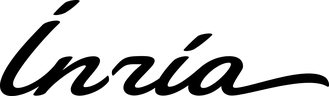
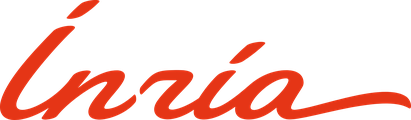
Show affiliations as colored, linked institution tags
- Full-color marks on light tags that read in both themes
- Add SCI Institute and TU Graz; list Dilshadur under Harvard Medical School
- Each tag links to the institution and highlights its authors on hover or focus

diff --git a/vis2026.html b/vis2026.html
@@ -841,58 +841,134 @@
       max-width: 62ch;
     }
 
-    /* Affiliations: one ink tone, each mark warms to its own color on hover */
+    /* Affiliations: small paper tags in each institution's own colors */
     .authors:has(+ .insts) {
-      margin-bottom: 12px;
+      margin-bottom: 14px;
     }
 
     .insts {
+      --tag-bg: #FFFFFF;
+      --tag-ink: #3E4148;
+      --tag-ring: rgba(21, 23, 27, 0.1);
+      --tag-shadow: 0 1px 2px rgba(21, 23, 27, 0.05);
       display: flex;
       flex-wrap: wrap;
-      align-items: center;
-      gap: 10px 20px;
-      margin: 0 0 20px;
+      gap: 8px;
+      margin: 0 0 22px;
       padding: 0;
       list-style: none;
+    }
+
+    html[data-theme="dark"] .insts {
+      --tag-bg: #ECE9E2;
+      --tag-ink: #2C2F35;
+      --tag-ring: rgba(255, 255, 255, 0.06);
+      --tag-shadow: 0 1px 2px rgba(0, 0, 0, 0.3);
     }
 
     .inst {
       display: inline-flex;
       align-items: center;
       gap: 8px;
+      height: 32px;
+      padding: 0 12px 0 9px;
+      border-radius: 8px;
+      background: var(--tag-bg);
+      box-shadow: 0 0 0 1px var(--tag-ring), var(--tag-shadow);
+      color: var(--tag-ink);
       font-size: 0.8125rem;
-      line-height: 1.2;
-      letter-spacing: 0.005em;
-      color: var(--ink-3);
-      transition: color 0.3s ease;
+      line-height: 1;
+      letter-spacing: 0.003em;
+      white-space: nowrap;
+      text-decoration: none;
+      transition: transform 0.4s var(--ease-out), box-shadow 0.4s var(--ease-out), color 0.3s ease;
     }
 
-    .inst i {
+    .inst img {
       display: block;
-      height: 19px;
+      width: auto;
+      height: 18px;
       flex: none;
-      background-color: currentColor;
-      -webkit-mask: var(--logo) center / contain no-repeat;
-      mask: var(--logo) center / contain no-repeat;
-      opacity: 0.85;
-      transition: background-color 0.35s ease, opacity 0.35s ease;
     }
 
-    .inst-word i {
+    .inst-word {
+      padding: 0 12px;
+    }
+
+    .inst-word img {
+      height: 15px;
+    }
+
+    .inst[data-inst="saclay"] img {
+      height: 21px;
+    }
+
+    .inst[data-inst="inria"] img {
       height: 16px;
     }
 
-    .inst[data-inst="saclay"] i {
-      height: 25px;
+    .inst[data-inst="sci"] img {
+      height: 22px;
     }
 
-    .inst[data-inst="inria"] i {
-      height: 18px;
-    }
-
-    .inst[data-inst="stuttgart"] i,
-    .inst[data-inst="wisconsin"] i {
+    .inst[data-inst="wisconsin"] img {
       height: 21px;
+    }
+
+    .inst[data-inst="stuttgart"] img {
+      height: 22px;
+    }
+
+    .inst:focus-visible {
+      outline: 2px solid var(--accent);
+      outline-offset: 2px;
+    }
+
+    @media (max-width: 560px) {
+      .insts {
+        gap: 6px;
+      }
+
+      .inst {
+        height: 28px;
+        gap: 6px;
+        padding: 0 9px 0 7px;
+        border-radius: 7px;
+        font-size: 0.75rem;
+      }
+
+      .inst-word {
+        padding: 0 9px;
+      }
+
+      .inst img {
+        height: 15px;
+      }
+
+      .inst-word img,
+      .inst[data-inst="inria"] img {
+        height: 13px;
+      }
+
+      .inst[data-inst="saclay"] img {
+        height: 18px;
+      }
+
+      .inst[data-inst="sci"] img,
+      .inst[data-inst="wisconsin"] img,
+      .inst[data-inst="stuttgart"] img {
+        height: 18px;
+      }
+    }
+
+    @media (hover: hover) and (pointer: fine) {
+      .inst:hover {
+        transform: translateY(-2px);
+        color: #15171B;
+        box-shadow:
+          0 0 0 1px color-mix(in srgb, var(--brand) 42%, transparent),
+          0 10px 20px -10px color-mix(in srgb, var(--brand) 55%, rgba(0, 0, 0, 0.4));
+      }
     }
 
     .authors a[data-inst] {
@@ -905,21 +981,6 @@
 
     .authors.is-filtered a.is-match {
       color: var(--ink);
-    }
-
-    @media (hover: hover) and (pointer: fine) {
-      .inst:hover {
-        color: var(--ink-2);
-      }
-
-      .inst:hover i {
-        background-color: var(--brand);
-        opacity: 1;
-      }
-
-      html[data-theme="dark"] .inst:hover i {
-        background-color: var(--ink);
-      }
     }
 
     .sr-only {
@@ -1509,8 +1570,8 @@
                   href="https://ieeevis.org/year/2026/program/session/w-accessviz-accessvis-1" target="_blank"
                   rel="noopener">AccessViz: 3rd Workshop on Accessible Data Visualization</a></p>
               <h4>A Case Study in Accessible Redesign of a Wastewater Dashboard</h4>
-              <p class="authors"><a class="u quiet" data-inst="utah" href="https://tingying-he.github.io/" target="_blank" rel="noopener">Tingying He</a>, <a class="u quiet" data-inst="utah" href="https://www.visdesignlab.net/team/wagoner/" target="_blank" rel="noopener">Jake Wagoner</a>, <a class="u quiet" data-inst="utah" href="https://rahatzamancse.netlify.app/" target="_blank" rel="noopener">Md Rahat-uz-Zaman</a>, <b><a class="u quiet" data-inst="utah" href="./">Md Dilshadur Rahman</a></b>, <a class="u quiet" data-inst="utah" href="https://www.linkedin.com/in/willy-ray-8018884/" target="_blank" rel="noopener">Willy Ray</a>, <a class="u quiet" data-inst="utah" href="https://ggvy.cl/" target="_blank" rel="noopener">George G. Vega Yon</a>, <a class="u quiet" data-inst="utah" href="https://medicine.utah.edu/faculty/matthew-h-samore" target="_blank" rel="noopener">Matthew Samore</a>, <a class="u quiet" data-inst="utah" href="https://alexander-lex.net/" target="_blank" rel="noopener">Alexander Lex</a>, <a class="u quiet" data-inst="utah" href="https://cspaul.com/" target="_blank" rel="noopener">Paul Rosen</a></p>
-              <ul class="insts" aria-label="Affiliations"><li class="inst" data-inst="utah" style="--brand:#BE0000"><i style="--logo:url(vis2026/inst/utah.png);aspect-ratio:106/96" aria-hidden="true"></i>University of Utah</li></ul>
+              <p class="authors"><a class="u quiet" data-inst="utah sci" href="https://tingying-he.github.io/" target="_blank" rel="noopener">Tingying He</a>, <a class="u quiet" data-inst="utah sci" href="https://www.visdesignlab.net/team/wagoner/" target="_blank" rel="noopener">Jake Wagoner</a>, <a class="u quiet" data-inst="utah sci" href="https://rahatzamancse.netlify.app/" target="_blank" rel="noopener">Md Rahat-uz-Zaman</a>, <b><a class="u quiet" data-inst="harvard" href="./">Md Dilshadur Rahman</a></b>, <a class="u quiet" data-inst="utah" href="https://www.linkedin.com/in/willy-ray-8018884/" target="_blank" rel="noopener">Willy Ray</a>, <a class="u quiet" data-inst="utah" href="https://ggvy.cl/" target="_blank" rel="noopener">George G. Vega Yon</a>, <a class="u quiet" data-inst="utah" href="https://medicine.utah.edu/faculty/matthew-h-samore" target="_blank" rel="noopener">Matthew Samore</a>, <a class="u quiet" data-inst="tugraz" href="https://alexander-lex.net/" target="_blank" rel="noopener">Alexander Lex</a>, <a class="u quiet" data-inst="utah sci" href="https://cspaul.com/" target="_blank" rel="noopener">Paul Rosen</a></p>
+              <ul class="insts" aria-label="Affiliations"><li><a class="inst" data-inst="utah" style="--brand:#BE0000" href="https://www.utah.edu/" target="_blank" rel="noopener"><img src="vis2026/inst/utah.png" width="132" height="120" alt="" /><span>University of Utah</span></a></li><li><a class="inst" data-inst="sci" style="--brand:#BE0000" href="https://www.sci.utah.edu/" target="_blank" rel="noopener"><img src="vis2026/inst/sci.png" width="232" height="120" alt="" /><span>SCI Institute</span></a></li><li><a class="inst" data-inst="harvard" style="--brand:#A51C30" href="https://hms.harvard.edu/" target="_blank" rel="noopener"><img src="vis2026/inst/harvard.png" width="102" height="120" alt="" /><span>Harvard Medical School</span></a></li><li><a class="inst" data-inst="tugraz" style="--brand:#E4154B" href="https://www.tugraz.at/en/" target="_blank" rel="noopener"><img src="vis2026/inst/tugraz.png" width="191" height="120" alt="" /><span>Graz University of Technology</span></a></li></ul>
               <p class="summary">Working with the Utah Department of Health and Human Services, we redesigned the
                 state’s public wastewater surveillance dashboard to meet accessibility requirements on desktop and
                 mobile. The paper describes our design decisions, the practical limits of working within a
@@ -1542,8 +1603,8 @@
                   href="https://ieeevis.org/year/2026/program/session/w-accessviz-accessvis-1" target="_blank"
                   rel="noopener">AccessViz: 3rd Workshop on Accessible Data Visualization</a></p>
               <h4>Chart-Supported or Model-Supplied? Examining MLLM-Generated Claims for Accessible Visualization</h4>
-              <p class="authors"><a class="u quiet" data-inst="utah" href="https://elizaan.github.io/" target="_blank" rel="noopener">Ishrat Jahan Eliza</a>, <b><a class="u quiet" data-inst="utah" href="./">Md Dilshadur Rahman</a></b></p>
-              <ul class="insts" aria-label="Affiliations"><li class="inst" data-inst="utah" style="--brand:#BE0000"><i style="--logo:url(vis2026/inst/utah.png);aspect-ratio:106/96" aria-hidden="true"></i>University of Utah</li></ul>
+              <p class="authors"><a class="u quiet" data-inst="utah sci" href="https://elizaan.github.io/" target="_blank" rel="noopener">Ishrat Jahan Eliza</a>, <b><a class="u quiet" data-inst="harvard" href="./">Md Dilshadur Rahman</a></b></p>
+              <ul class="insts" aria-label="Affiliations"><li><a class="inst" data-inst="utah" style="--brand:#BE0000" href="https://www.utah.edu/" target="_blank" rel="noopener"><img src="vis2026/inst/utah.png" width="132" height="120" alt="" /><span>University of Utah</span></a></li><li><a class="inst" data-inst="sci" style="--brand:#BE0000" href="https://www.sci.utah.edu/" target="_blank" rel="noopener"><img src="vis2026/inst/sci.png" width="232" height="120" alt="" /><span>SCI Institute</span></a></li><li><a class="inst" data-inst="harvard" style="--brand:#A51C30" href="https://hms.harvard.edu/" target="_blank" rel="noopener"><img src="vis2026/inst/harvard.png" width="102" height="120" alt="" /><span>Harvard Medical School</span></a></li></ul>
               <p class="summary">Multimodal language models are now used to describe charts for blind and low-vision
                 readers, but it is not always clear where their statements come from. We examined 1,224 descriptions
                 of 102 charts from three models, labeling each claim as stated in the chart, derived from it, or
@@ -1576,8 +1637,8 @@
               <p class="session"><a class="u quiet" href="https://ieeevis.org/year/2026/program/session/w-beliv-beliv-1"
                   target="_blank" rel="noopener">BELIV: Learning What’s True, Doing What’s Right</a></p>
               <h4>Guidelines Are Not Rules: Characterizing Terminologies around Visualization Design Guidelines</h4>
-              <p class="authors"><a class="u quiet" data-inst="wisconsin" href="https://schlosslab.discovery.wisc.edu/profile/?smid=3294" target="_blank" rel="noopener">Anna L. Chinni</a>, <b><a class="u quiet" data-inst="utah" href="./">Md Dilshadur Rahman</a></b>, <a class="u quiet" data-inst="autodesk" href="https://bonadriel.com/" target="_blank" rel="noopener">Bon Adriel Aseniero</a>, <a class="u quiet" data-inst="saclay inria" href="https://petra.isenberg.cc/" target="_blank" rel="noopener">Petra Isenberg</a>, <a class="u quiet" data-inst="stanford" href="https://kushinm.com/" target="_blank" rel="noopener">Kushin Mukherjee</a>, <a class="u quiet" data-inst="oklahoma" href="https://www.jiquadcs.com/" target="_blank" rel="noopener">Ghulam Jilani Quadri</a>, <a class="u quiet" data-inst="utah" href="https://cspaul.com/" target="_blank" rel="noopener">Paul Rosen</a>, <a class="u quiet" data-inst="wisconsin" href="https://schlosslab.discovery.wisc.edu/" target="_blank" rel="noopener">Karen B. Schloss</a>, <a class="u quiet" data-inst="stuttgart" href="https://www.vis.uni-stuttgart.de/team/Weiskopf" target="_blank" rel="noopener">Daniel Weiskopf</a></p>
-              <ul class="insts" aria-label="Affiliations"><li class="inst" data-inst="wisconsin" style="--brand:#C5050C"><i style="--logo:url(vis2026/inst/wisconsin.png);aspect-ratio:61/96" aria-hidden="true"></i>University of Wisconsin–Madison</li><li class="inst" data-inst="utah" style="--brand:#BE0000"><i style="--logo:url(vis2026/inst/utah.png);aspect-ratio:106/96" aria-hidden="true"></i>University of Utah</li><li class="inst" data-inst="autodesk" style="--brand:var(--ink)"><i style="--logo:url(vis2026/inst/autodesk.png);aspect-ratio:140/96" aria-hidden="true"></i>Autodesk Research</li><li class="inst inst-word" data-inst="saclay" style="--brand:#63003C" title="Université Paris-Saclay"><i style="--logo:url(vis2026/inst/saclay.png);aspect-ratio:274/96" aria-hidden="true"></i><span class="sr-only">Université Paris-Saclay</span></li><li class="inst inst-word" data-inst="inria" style="--brand:#E63312" title="Inria"><i style="--logo:url(vis2026/inst/inria.png);aspect-ratio:329/96" aria-hidden="true"></i><span class="sr-only">Inria</span></li><li class="inst inst-word" data-inst="stanford" style="--brand:#8C1515" title="Stanford University"><i style="--logo:url(vis2026/inst/stanford.png);aspect-ratio:458/96" aria-hidden="true"></i><span class="sr-only">Stanford University</span></li><li class="inst" data-inst="oklahoma" style="--brand:#841617"><i style="--logo:url(vis2026/inst/oklahoma.png);aspect-ratio:74/96" aria-hidden="true"></i>University of Oklahoma</li><li class="inst" data-inst="stuttgart" style="--brand:#004191"><i style="--logo:url(vis2026/inst/stuttgart.png);aspect-ratio:96/96" aria-hidden="true"></i>University of Stuttgart</li></ul>
+              <p class="authors"><a class="u quiet" data-inst="wisconsin" href="https://schlosslab.discovery.wisc.edu/profile/?smid=3294" target="_blank" rel="noopener">Anna L. Chinni</a>, <b><a class="u quiet" data-inst="harvard" href="./">Md Dilshadur Rahman</a></b>, <a class="u quiet" data-inst="autodesk" href="https://bonadriel.com/" target="_blank" rel="noopener">Bon Adriel Aseniero</a>, <a class="u quiet" data-inst="saclay inria" href="https://petra.isenberg.cc/" target="_blank" rel="noopener">Petra Isenberg</a>, <a class="u quiet" data-inst="stanford" href="https://kushinm.com/" target="_blank" rel="noopener">Kushin Mukherjee</a>, <a class="u quiet" data-inst="oklahoma" href="https://www.jiquadcs.com/" target="_blank" rel="noopener">Ghulam Jilani Quadri</a>, <a class="u quiet" data-inst="utah sci" href="https://cspaul.com/" target="_blank" rel="noopener">Paul Rosen</a>, <a class="u quiet" data-inst="wisconsin" href="https://schlosslab.discovery.wisc.edu/" target="_blank" rel="noopener">Karen B. Schloss</a>, <a class="u quiet" data-inst="stuttgart" href="https://www.vis.uni-stuttgart.de/team/Weiskopf" target="_blank" rel="noopener">Daniel Weiskopf</a></p>
+              <ul class="insts" aria-label="Affiliations"><li><a class="inst" data-inst="wisconsin" style="--brand:#C5050C" href="https://www.wisc.edu/" target="_blank" rel="noopener"><img src="vis2026/inst/wisconsin.png" width="76" height="120" alt="" /><span>University of Wisconsin–Madison</span></a></li><li><a class="inst" data-inst="harvard" style="--brand:#A51C30" href="https://hms.harvard.edu/" target="_blank" rel="noopener"><img src="vis2026/inst/harvard.png" width="102" height="120" alt="" /><span>Harvard Medical School</span></a></li><li><a class="inst" data-inst="autodesk" style="--brand:#000000" href="https://www.research.autodesk.com/" target="_blank" rel="noopener"><img src="vis2026/inst/autodesk.png" width="175" height="120" alt="" /><span>Autodesk Research</span></a></li><li><a class="inst inst-word" data-inst="saclay" style="--brand:#63003C" href="https://www.universite-paris-saclay.fr/en" target="_blank" rel="noopener" title="Université Paris-Saclay"><img src="vis2026/inst/saclay.png" width="342" height="120" alt="" /><span class="sr-only">Université Paris-Saclay</span></a></li><li><a class="inst inst-word" data-inst="inria" style="--brand:#E63312" href="https://www.inria.fr/en" target="_blank" rel="noopener" title="Inria"><img src="vis2026/inst/inria.png" width="411" height="120" alt="" /><span class="sr-only">Inria</span></a></li><li><a class="inst inst-word" data-inst="stanford" style="--brand:#8C1515" href="https://www.stanford.edu/" target="_blank" rel="noopener" title="Stanford University"><img src="vis2026/inst/stanford.png" width="573" height="120" alt="" /><span class="sr-only">Stanford University</span></a></li><li><a class="inst" data-inst="oklahoma" style="--brand:#841617" href="https://www.ou.edu/" target="_blank" rel="noopener"><img src="vis2026/inst/oklahoma.png" width="92" height="120" alt="" /><span>University of Oklahoma</span></a></li><li><a class="inst" data-inst="utah" style="--brand:#BE0000" href="https://www.utah.edu/" target="_blank" rel="noopener"><img src="vis2026/inst/utah.png" width="132" height="120" alt="" /><span>University of Utah</span></a></li><li><a class="inst" data-inst="sci" style="--brand:#BE0000" href="https://www.sci.utah.edu/" target="_blank" rel="noopener"><img src="vis2026/inst/sci.png" width="232" height="120" alt="" /><span>SCI Institute</span></a></li><li><a class="inst" data-inst="stuttgart" style="--brand:#004191" href="https://www.uni-stuttgart.de/en/" target="_blank" rel="noopener"><img src="vis2026/inst/stuttgart.png" width="120" height="120" alt="" /><span>University of Stuttgart</span></a></li></ul>
               <p class="summary">Visualization research often presents its findings as “guidelines,” yet researchers
                 read that word in different ways. Drawing on an expert study, a crowdsourced study, and the
                 terminology of 3,877 IEEE VIS papers, we examine how the community understands it alongside related
@@ -1616,8 +1677,8 @@
                   target="_blank" rel="noopener">How you show it makes a difference!</a> · TVCG paper</p>
               <h4>A Survey on Annotations in Information Visualization: Empirical Studies, Applications, and Challenges
               </h4>
-              <p class="authors"><b><a class="u quiet" data-inst="utah" href="./">Md Dilshadur Rahman</a></b>, <a class="u quiet" data-inst="usf" href="https://www.linkedin.com/in/doppalapudib/" target="_blank" rel="noopener">Bhavana Doppalapudi</a>, <a class="u quiet" data-inst="oklahoma" href="https://www.jiquadcs.com/" target="_blank" rel="noopener">Ghulam Jilani Quadri</a>, <a class="u quiet" data-inst="utah" href="https://cspaul.com/" target="_blank" rel="noopener">Paul Rosen</a></p>
-              <ul class="insts" aria-label="Affiliations"><li class="inst" data-inst="utah" style="--brand:#BE0000"><i style="--logo:url(vis2026/inst/utah.png);aspect-ratio:106/96" aria-hidden="true"></i>University of Utah</li><li class="inst" data-inst="usf" style="--brand:#006747"><i style="--logo:url(vis2026/inst/usf.png);aspect-ratio:217/96" aria-hidden="true"></i>University of South Florida</li><li class="inst" data-inst="oklahoma" style="--brand:#841617"><i style="--logo:url(vis2026/inst/oklahoma.png);aspect-ratio:74/96" aria-hidden="true"></i>University of Oklahoma</li></ul>
+              <p class="authors"><b><a class="u quiet" data-inst="harvard" href="./">Md Dilshadur Rahman</a></b>, <a class="u quiet" data-inst="usf" href="https://www.linkedin.com/in/doppalapudib/" target="_blank" rel="noopener">Bhavana Doppalapudi</a>, <a class="u quiet" data-inst="oklahoma" href="https://www.jiquadcs.com/" target="_blank" rel="noopener">Ghulam Jilani Quadri</a>, <a class="u quiet" data-inst="utah sci" href="https://cspaul.com/" target="_blank" rel="noopener">Paul Rosen</a></p>
+              <ul class="insts" aria-label="Affiliations"><li><a class="inst" data-inst="harvard" style="--brand:#A51C30" href="https://hms.harvard.edu/" target="_blank" rel="noopener"><img src="vis2026/inst/harvard.png" width="102" height="120" alt="" /><span>Harvard Medical School</span></a></li><li><a class="inst" data-inst="usf" style="--brand:#006747" href="https://www.usf.edu/" target="_blank" rel="noopener"><img src="vis2026/inst/usf.png" width="271" height="120" alt="" /><span>University of South Florida</span></a></li><li><a class="inst" data-inst="oklahoma" style="--brand:#841617" href="https://www.ou.edu/" target="_blank" rel="noopener"><img src="vis2026/inst/oklahoma.png" width="92" height="120" alt="" /><span>University of Oklahoma</span></a></li><li><a class="inst" data-inst="utah" style="--brand:#BE0000" href="https://www.utah.edu/" target="_blank" rel="noopener"><img src="vis2026/inst/utah.png" width="132" height="120" alt="" /><span>University of Utah</span></a></li><li><a class="inst" data-inst="sci" style="--brand:#BE0000" href="https://www.sci.utah.edu/" target="_blank" rel="noopener"><img src="vis2026/inst/sci.png" width="232" height="120" alt="" /><span>SCI Institute</span></a></li></ul>
               <p class="summary">A survey of 191 papers on annotation in visualization. We classify annotations by
                 type, by how they are created, and by what they refer to, and review their role in engagement,
                 storytelling, collaboration, and exploratory analysis. All surveyed papers can be explored in an
@@ -1657,8 +1718,8 @@
                   rel="noopener">Cluster: The Practitioners’ Summit</a> · Talk</p>
               <h4>Designing Annotations in Visualization: Considerations from Visualization Practitioners and Educators
               </h4>
-              <p class="authors"><b><a class="u quiet" data-inst="utah" href="./">Md Dilshadur Rahman</a></b>, <a class="u quiet" data-inst="harvard" href="https://www.devinlange.com/" target="_blank" rel="noopener">Devin Lange</a>, <a class="u quiet" data-inst="oklahoma" href="https://www.jiquadcs.com/" target="_blank" rel="noopener">Ghulam Jilani Quadri</a>, <a class="u quiet" data-inst="utah" href="https://cspaul.com/" target="_blank" rel="noopener">Paul Rosen</a></p>
-              <ul class="insts" aria-label="Affiliations"><li class="inst" data-inst="utah" style="--brand:#BE0000"><i style="--logo:url(vis2026/inst/utah.png);aspect-ratio:106/96" aria-hidden="true"></i>University of Utah</li><li class="inst" data-inst="harvard" style="--brand:#A51C30"><i style="--logo:url(vis2026/inst/harvard.png);aspect-ratio:81/96" aria-hidden="true"></i>Harvard Medical School</li><li class="inst" data-inst="oklahoma" style="--brand:#841617"><i style="--logo:url(vis2026/inst/oklahoma.png);aspect-ratio:74/96" aria-hidden="true"></i>University of Oklahoma</li></ul>
+              <p class="authors"><b><a class="u quiet" data-inst="harvard" href="./">Md Dilshadur Rahman</a></b>, <a class="u quiet" data-inst="harvard" href="https://www.devinlange.com/" target="_blank" rel="noopener">Devin Lange</a>, <a class="u quiet" data-inst="oklahoma" href="https://www.jiquadcs.com/" target="_blank" rel="noopener">Ghulam Jilani Quadri</a>, <a class="u quiet" data-inst="utah sci" href="https://cspaul.com/" target="_blank" rel="noopener">Paul Rosen</a></p>
+              <ul class="insts" aria-label="Affiliations"><li><a class="inst" data-inst="harvard" style="--brand:#A51C30" href="https://hms.harvard.edu/" target="_blank" rel="noopener"><img src="vis2026/inst/harvard.png" width="102" height="120" alt="" /><span>Harvard Medical School</span></a></li><li><a class="inst" data-inst="oklahoma" style="--brand:#841617" href="https://www.ou.edu/" target="_blank" rel="noopener"><img src="vis2026/inst/oklahoma.png" width="92" height="120" alt="" /><span>University of Oklahoma</span></a></li><li><a class="inst" data-inst="utah" style="--brand:#BE0000" href="https://www.utah.edu/" target="_blank" rel="noopener"><img src="vis2026/inst/utah.png" width="132" height="120" alt="" /><span>University of Utah</span></a></li><li><a class="inst" data-inst="sci" style="--brand:#BE0000" href="https://www.sci.utah.edu/" target="_blank" rel="noopener"><img src="vis2026/inst/sci.png" width="232" height="120" alt="" /><span>SCI Institute</span></a></li></ul>
               <p class="summary">Drawing on interviews with ten practitioners and seven educators, this talk looks at
                 how professionals decide what to annotate, where to place it, and how much to include. We distill
                 their practice into six design considerations, each paired with published examples. The paper
@@ -1726,14 +1787,18 @@
         if (!authors || !authors.classList.contains('authors')) return;
         const links = authors.querySelectorAll('a[data-inst]');
         list.querySelectorAll('.inst').forEach((inst) => {
-          inst.addEventListener('mouseenter', () => {
+          const show = () => {
             links.forEach((a) => a.classList.toggle('is-match', a.dataset.inst.split(' ').includes(inst.dataset.inst)));
             authors.classList.add('is-filtered');
-          });
-          inst.addEventListener('mouseleave', () => {
+          };
+          const hide = () => {
             authors.classList.remove('is-filtered');
             links.forEach((a) => a.classList.remove('is-match'));
-          });
+          };
+          inst.addEventListener('focus', show);
+          inst.addEventListener('blur', hide);
+          inst.addEventListener('mouseenter', show);
+          inst.addEventListener('mouseleave', hide);
         });
       });
       const finePointer = window.matchMedia('(hover: hover) and (pointer: fine)').matches;
